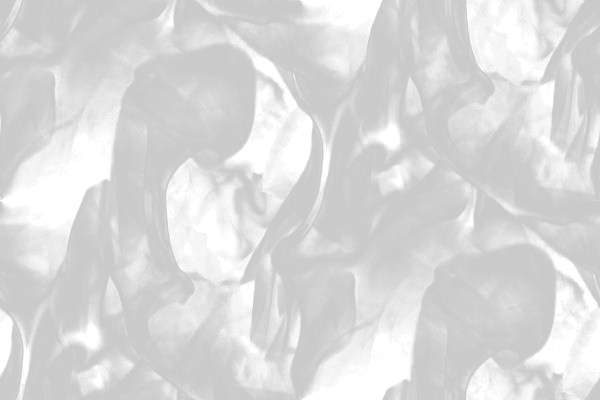
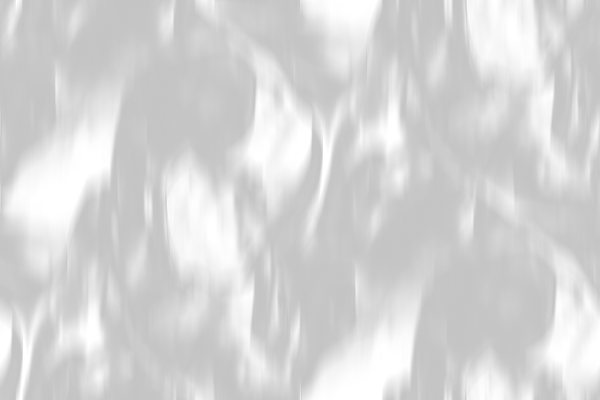
updating litcloud with fire stuff and adding comments to chromecloud, plus updating for app refactor -sG

diff --git a/Previz/LitCloud/src/LitCloudApp.cpp b/Previz/LitCloud/src/LitCloudApp.cpp
@@ -8,6 +8,7 @@
 #include "cinder/app/RendererGl.h"
 #include "cinder/gl/gl.h"
 #include "cinder/gl/Batch.h"
+#include "cinder/gl/Context.h"
 #include "cinder/gl/Fbo.h"
 #include "cinder/gl/GlslProg.h"
 #include "cinder/gl/Texture.h"
@@ -58,6 +59,7 @@ private:
 	//FSFX
 	gl::FboRef				mCloudFbo;
 	gl::Texture2dRef		mTexFSFX;
+	gl::Texture2dRef		mTexFire;
 	gl::GlslProgRef			mFSFXShader;
 	float					mDisplaceAmount,
 							mScrollSpeed;
@@ -103,13 +105,13 @@ void LitCloudApp::setup()
 
 void LitCloudApp::setupGUI()
 {
-	mColorScale = 1.5f;
-	mAmbientScale = 0.8f;
-	mSpecularScale = 1.0f;
-	mSpecularPower = 16.0f;
-	mEnvScale = 1.0f;
-	mDisplaceAmount = 0.1f;
-	mScrollSpeed = 0.1f;
+	mColorScale = 2.0f;
+	mAmbientScale = 0.1f;
+	mSpecularScale = 2.0f;
+	mSpecularPower = 8.0f;
+	mEnvScale = 0.4f;
+	mDisplaceAmount = 0.3f;
+	mScrollSpeed = 0.4f;
 
 	mLightColor = Color::white();
 
@@ -165,7 +167,7 @@ void LitCloudApp::setupMeshes()
 	mSkyBatch = gl::Batch::create(geom::Cube(), mSkyShader);
 	mSkyBatch->getGlslProg()->uniform("uCubeMapTex", 0);
 	
-	mCloudCube = geom::Sphere().radius(0.0125f).subdivisions(8);
+	mCloudCube = geom::Sphere().radius(0.0075f).subdivisions(8);
 	mCloudMesh = gl::VboMesh::create(mCloudCube);
 
 	mCloudData = gl::Vbo::create(GL_ARRAY_BUFFER, mPositions, GL_DYNAMIC_DRAW);
@@ -186,8 +188,11 @@ void LitCloudApp::setupMeshes()
 
 void LitCloudApp::setupFBOs()
 {
-	mCloudFbo = gl::Fbo::create(1280, 720, gl::Fbo::Format().colorTexture(gl::Texture2d::Format().internalFormat(GL_RGBA8)));
+	//gl::Fbo::Format cFboFormat;
+	//cFboFormat.
+	mCloudFbo = gl::Fbo::create(1280, 720, gl::Fbo::Format().colorTexture(gl::Texture2d::Format().internalFormat(GL_RGBA16F).wrap(GL_CLAMP_TO_EDGE)));
 	mTexFSFX = gl::Texture2d::create(loadImage(loadAsset("water_tex.png")), gl::Texture2d::Format().wrap(GL_REPEAT));
+	mTexFire = gl::Texture2d::create(loadImage(loadAsset("fire_gradient.png")));
 
 	try
 	{
@@ -197,6 +202,7 @@ void LitCloudApp::setupFBOs()
 	{
 		console() << e.what() << endl;
 	}
+	mFSFXShader->uniform("mTexFire", 0);
 
 
 }
@@ -213,43 +219,67 @@ void LitCloudApp::mouseDrag(MouseEvent event)
 
 void LitCloudApp::update()
 {
-	mCinderDS->update();
 	mPositions.clear();
-	Channel16u cChanDepth = mCinderDS->getDepthFrame();
-	Channel16u::Iter cIter = cChanDepth.getIter();
+	mCloudData->bufferData(mPositions.size()*sizeof(vec3), nullptr, GL_DYNAMIC_DRAW);
 
-	while (cIter.line())
+	if (mCinderDS->update())
 	{
-		while (cIter.pixel())
+		Channel16u cChanDepth = mCinderDS->getDepthFrame();
+		Channel16u::Iter cIter = cChanDepth.getIter();
+
+		uint16_t *cDepthBuffer = cChanDepth.getData();
+
+		/*
+		while (cIter.line())
 		{
-			if (cIter.x() % 2 == 0 && cIter.y() % 2 == 0)
+			while (cIter.pixel())
 			{
 				float cVal = (float)cIter.v();
-				if (cVal > 100 && cVal < 1000)
+				float cX = cIter.x();
+				float cY = cIter.y();
+				if (cVal > 100 && cVal < 1000 && cX >= 0 && cX < mCinderDS->getRgbWidth() && cY >= 0 && cY < mCinderDS->getRgbHeight())
 				{
 					float cx = lmap<float>(cIter.x(), 0, mDepthDims.x, -8.f, 8.f);
 					float cy = lmap<float>(cIter.y(), 0, mDepthDims.y, 6.f, -6.f);
 					float cz = lmap<float>(cVal, 100.0f, 1000.0f, -8.f, 8.f);
 
-					Color cColor = mCinderDS->getDepthSpaceColor(vec3(cIter.x(), cIter.y(), cVal));
+					Color cColor = mCinderDS->getDepthSpaceColor(vec3(cX, cY, cVal));
+					mPositions.push_back(CloudPoint(vec3(cx, cy, cz), vec4(cColor.r, cColor.g, cColor.b, 1)));
+				}
+			}
+		}*/
+
+		for (int dy = 0; dy < mDepthDims.y; ++dy)
+		{
+			for (int dx = 0; dx < mDepthDims.x; ++dx)
+			{
+				float cVal = (float)cDepthBuffer[dy * 480 + dx];
+				if (cVal > 100 && cVal < 1000 && dx >= 0 && dx < mDepthDims.x && dy >= 0 && dy < mDepthDims.y)
+				{
+					float cx = lmap<float>(dx, 0, mDepthDims.x, -8.f, 8.f);
+					float cy = lmap<float>(dy, 0, mDepthDims.y, 6.f, -6.f);
+					float cz = lmap<float>(cVal, 100.0f, 1000.0f, -8.f, 8.f);
+
+					Color cColor = mCinderDS->getDepthSpaceColor(vec3(dx, dy, cVal));
 					mPositions.push_back(CloudPoint(vec3(cx, cy, cz), vec4(cColor.r, cColor.g, cColor.b, 1)));
 				}
 			}
 		}
+		mCloudData->bufferData(mPositions.size()*sizeof(vec3), mPositions.data(), GL_DYNAMIC_DRAW);
+		mCloudMesh = gl::VboMesh::create(mCloudCube);
+		mCloudMesh->appendVbo(mCloudAttribs, mCloudData);
+		mCloudBatch->replaceVboMesh(mCloudMesh);
+
+		renderFBOs();
 	}
-
-	mCloudData->bufferData(mPositions.size()*sizeof(vec3), mPositions.data(), GL_DYNAMIC_DRAW);
-	mCloudMesh = gl::VboMesh::create(mCloudCube);
-	mCloudMesh->appendVbo(mCloudAttribs, mCloudData);
-	mCloudBatch->replaceVboMesh(mCloudMesh);
-
-	renderFBOs();
 }
 
 void LitCloudApp::renderFBOs()
 {
-	gl::ScopedFramebuffer cFbo(mCloudFbo);
-	gl::ScopedTextureBind cTex(mSkyTexCube);
+	//gl::ScopedFramebuffer cFbo(mCloudFbo);
+	//gl::ScopedTextureBind cTex(mSkyTexCube);
+	mCloudFbo->bindFramebuffer();
+	mSkyTexCube->bind();
 	gl::enableDepthRead();
 	gl::enableDepthWrite();
 	gl::enableAlphaBlending();
@@ -259,19 +289,25 @@ void LitCloudApp::renderFBOs()
 	mCloudBatch->getGlslProg()->uniform("ViewDirection", mMayaCam.getCamera().getViewDirection());
 	mCloudBatch->getGlslProg()->uniform("LightColor", mLightColor);
 	mCloudBatch->getGlslProg()->uniform("LightPosition", mMayaCam.getCamera().getEyePoint());
+	mCloudBatch->getGlslProg()->uniform("ColorScale", mColorScale);
 	mCloudBatch->getGlslProg()->uniform("SpecularScale", mSpecularScale);
 	mCloudBatch->getGlslProg()->uniform("SpecularPower", mSpecularPower);
 	mCloudBatch->getGlslProg()->uniform("AmbientScale", mAmbientScale);
 	mCloudBatch->getGlslProg()->uniform("EnvScale", mEnvScale);
 	mCloudBatch->drawInstanced(mPositions.size());
+	mSkyTexCube->unbind();
+	mCloudFbo->unbindFramebuffer();
+
 	gl::disableDepthRead();
 	gl::disableDepthWrite();
 	gl::disableAlphaBlending();
+
 }
 
 void LitCloudApp::draw()
 {
 	gl::clear(Color(0.1f, 0.15f, 0.25f));
+	
 	gl::setMatrices(mMayaCam.getCamera());
 
 	gl::enableDepthRead();
@@ -281,28 +317,33 @@ void LitCloudApp::draw()
 	mSkyBatch->draw();
 	gl::popMatrices();
 	mSkyTexCube->unbind();
+
+	mCloudBatch->drawInstanced(mPositions.size());
+	/*
 	gl::disableDepthRead();
-
 	gl::setMatricesWindow(getWindowSize());
-
+	
 	gl::enableAdditiveBlending();
-	mCloudFbo->bindTexture(0);
-	mTexFSFX->bind(1);
+	mTexFire->bind(0);
+	mCloudFbo->bindTexture(1);
+	mTexFSFX->bind(2);
 	mFSFXShader->bind();
-	mFSFXShader->uniform("mTexColor", 0);
-	mFSFXShader->uniform("mTexDisplace", 1);
+	mFSFXShader->uniform("mTexColor", 1);
+	mFSFXShader->uniform("mTexDisplace", 2);
 	mFSFXShader->uniform("DisplaceAmount", mDisplaceAmount);
 	mFSFXShader->uniform("ScrollSpeed", mScrollSpeed);
 	gl::color(ColorA::white());
 	gl::drawSolidRect(Rectf({ vec2(0), getWindowSize() }));
 	gl::disableAlphaBlending();
-
+	
+	
 	gl::enableAlphaBlending();
 	gl::color(Color::white());
 	gl::draw(mCloudFbo->getColorTexture(), vec2(0));
 	gl::disableAlphaBlending();
-
+	
 	mGUI->draw();
+	*/
 }
 
 void LitCloudApp::exit()

diff --git a/Previz/ChromeCloud/src/ChromeCloudApp.cpp b/Previz/ChromeCloud/src/ChromeCloudApp.cpp
@@ -4,7 +4,7 @@
 #pragma comment(lib, "DSAPI32.lib")
 #endif
 
-#include "cinder/app/AppNative.h"
+#include "cinder/app/App.h"
 #include "cinder/app/RendererGl.h"
 #include "cinder/gl/gl.h"
 #include "cinder/gl/Batch.h"
@@ -22,7 +22,7 @@ using namespace ci::app;
 using namespace std;
 using namespace CinderDS;
 
-class ChromeCloudApp : public AppNative
+class ChromeCloudApp : public App
 {
 public:
 	void setup() override;
@@ -123,7 +123,7 @@ void ChromeCloudApp::setupDSAPI()
 	mDepthDims = mCinderDS->getDepthSize();
 	mCinderDS->start();
 
-	getSignalShutdown().connect(std::bind(&ChromeCloudApp::exit, this));
+	getSignalCleanup().connect(std::bind(&ChromeCloudApp::exit, this));
 }
 
 void ChromeCloudApp::setupMeshes()
@@ -176,8 +176,7 @@ void ChromeCloudApp::setupMeshes()
 
 void ChromeCloudApp::setupFBOs()
 {
-	setupCloudFBO();
-
+	setupCloudFBO();	//This is redundant, sorry.
 }
 
 void ChromeCloudApp::setupCloudFBO()
@@ -193,21 +192,32 @@ void ChromeCloudApp::setupCloudFBO()
 	}
 
 
-	mTexScroll = gl::Texture2d::create(loadImage(loadAsset("cloud_map.png")), gl::Texture2d::Format().wrap(GL_REPEAT).internalFormat(GL_RGBA));
+	mTexScroll = gl::Texture2d::create(loadImage(loadAsset("rain_test.png")), gl::Texture2d::Format().wrap(GL_REPEAT).internalFormat(GL_RGBA));
 	mScrollShader->uniform("mTexColor", 0);
 	mScrollShader->uniform("mTexMask", 1);
 
+	//FBO Format tells Cinder what settings we want to use for our FBO,
+	//in this case we're setting the texture format to have an alpha channel
+	//since we want to do some blending
 	gl::Fbo::Format cFboFormat;
 	gl::Texture2d::Format cTexFormat = gl::Texture2d::Format().internalFormat(GL_RGBA8);
 	
+	//Now we create the textures that all the frame buffer operations write into
+	//NOTE: This is optional, if you just construct an Fbo, it will by default
+	//give you a color texture at the specified size
 	gl::Texture2dRef cCloudColor = gl::Texture2d::create(1280, 720, cTexFormat);
 	gl::Texture2dRef cScrollColor = gl::Texture2d::create(1280, 720, cTexFormat);
 	
+	//Now we add a texture to our FBO format object so the FBO
+	//knows which texture to use for writing.  Again, this is optional
 	cFboFormat.attachment(GL_COLOR_ATTACHMENT0, cCloudColor);
 	cFboFormat.depthTexture();
+
+	//Now we create the First FBO and pass in the format, and thus the texture we created
 	mCloudFbo = gl::Fbo::create(1280, 720, cFboFormat);
 	mTexCloudAlpha = gl::Texture2d::create(1280, 720, cTexFormat);
 
+	//We change the texture in our format to the second texture and create the second fbo
 	cFboFormat.attachment(GL_COLOR_ATTACHMENT0, cScrollColor);
 	cFboFormat.depthTexture();
 	mScrollFbo = gl::Fbo::create(1280, 720, cFboFormat);
@@ -225,6 +235,8 @@ void ChromeCloudApp::mouseDrag(MouseEvent event)
 
 void ChromeCloudApp::renderCloudFBO()
 {
+	//Fbo::bindFrameBuffer tells Cinder/OpenGL that instead of drawing
+	//to the screen, we want to draw to the specified frame buffer
 	mCloudFbo->bindFramebuffer();
 	gl::ScopedViewport cCloudVP(vec2(0), mCloudFbo->getSize());
 	gl::setMatrices(mMayaCam.getCamera());
@@ -233,9 +245,24 @@ void ChromeCloudApp::renderCloudFBO()
 	mCloudBatch->getGlslProg()->uniform("mColorAmt", mColorScale);
 	mCloudBatch->getGlslProg()->uniform("mReflAmt", mReflScale);
 	mCloudBatch->drawInstanced(mPositions.size());
-
 	mCloudFbo->unbindFramebuffer();
+	//Be sure to call Fbo::unbindFramebuffer() after you're done
+	//otherwise you'll keep drawing to the same fbo and won't
+	//be able to access the texture
 
+	//Ok, this next section is a bit involved, but stay with me:
+	//	So we have a texture from the point cloud stored in our first
+	//	FBO.  Now we want to generate ANOTHER texture into the second
+	//	FBO that uses the texture from the first FBO as input.
+	//	Recall that when you want to draw a texture to the screen
+	//	in Cinder, you call either gl::draw or you bind a shader and
+	//  call gl::drawSolidRect to draw a rectangle the size of the screen
+	//  with the texture on it.  So, we're going to do the same thing here
+	//	but instead of drawing the texture on a rectangle to the screen,
+	//  we're drawing it into the second FBO, which effectively takes
+	//  the first texture (the point cloud), the second texture (the mask)
+	//  and gives us a THIRD texture that is the result of the operation
+	//  on both of those textures.
 	mScrollFbo->bindFramebuffer();
 	gl::enableAlphaBlending();
 	gl::setMatricesWindow(getWindowSize());
@@ -303,9 +330,10 @@ void ChromeCloudApp::draw()
 
 	gl::setMatricesWindow(getWindowSize());
 	
+	//...and so here, all we have to do is gl::draw the texture
+	//from out last FBO and we can see all the effects. Cool, eh?
 	gl::draw(mScrollFbo->getColorTexture(), vec2(0));
 	gl::disableAlphaBlending();
-
 	mGUI->draw();
 }
 
@@ -314,4 +342,4 @@ void ChromeCloudApp::exit()
 	mCinderDS->stop();
 }
 
-CINDER_APP_NATIVE(ChromeCloudApp, RendererGl{RendererGl::Options().msaa(0)})
+CINDER_APP(ChromeCloudApp, RendererGl)
